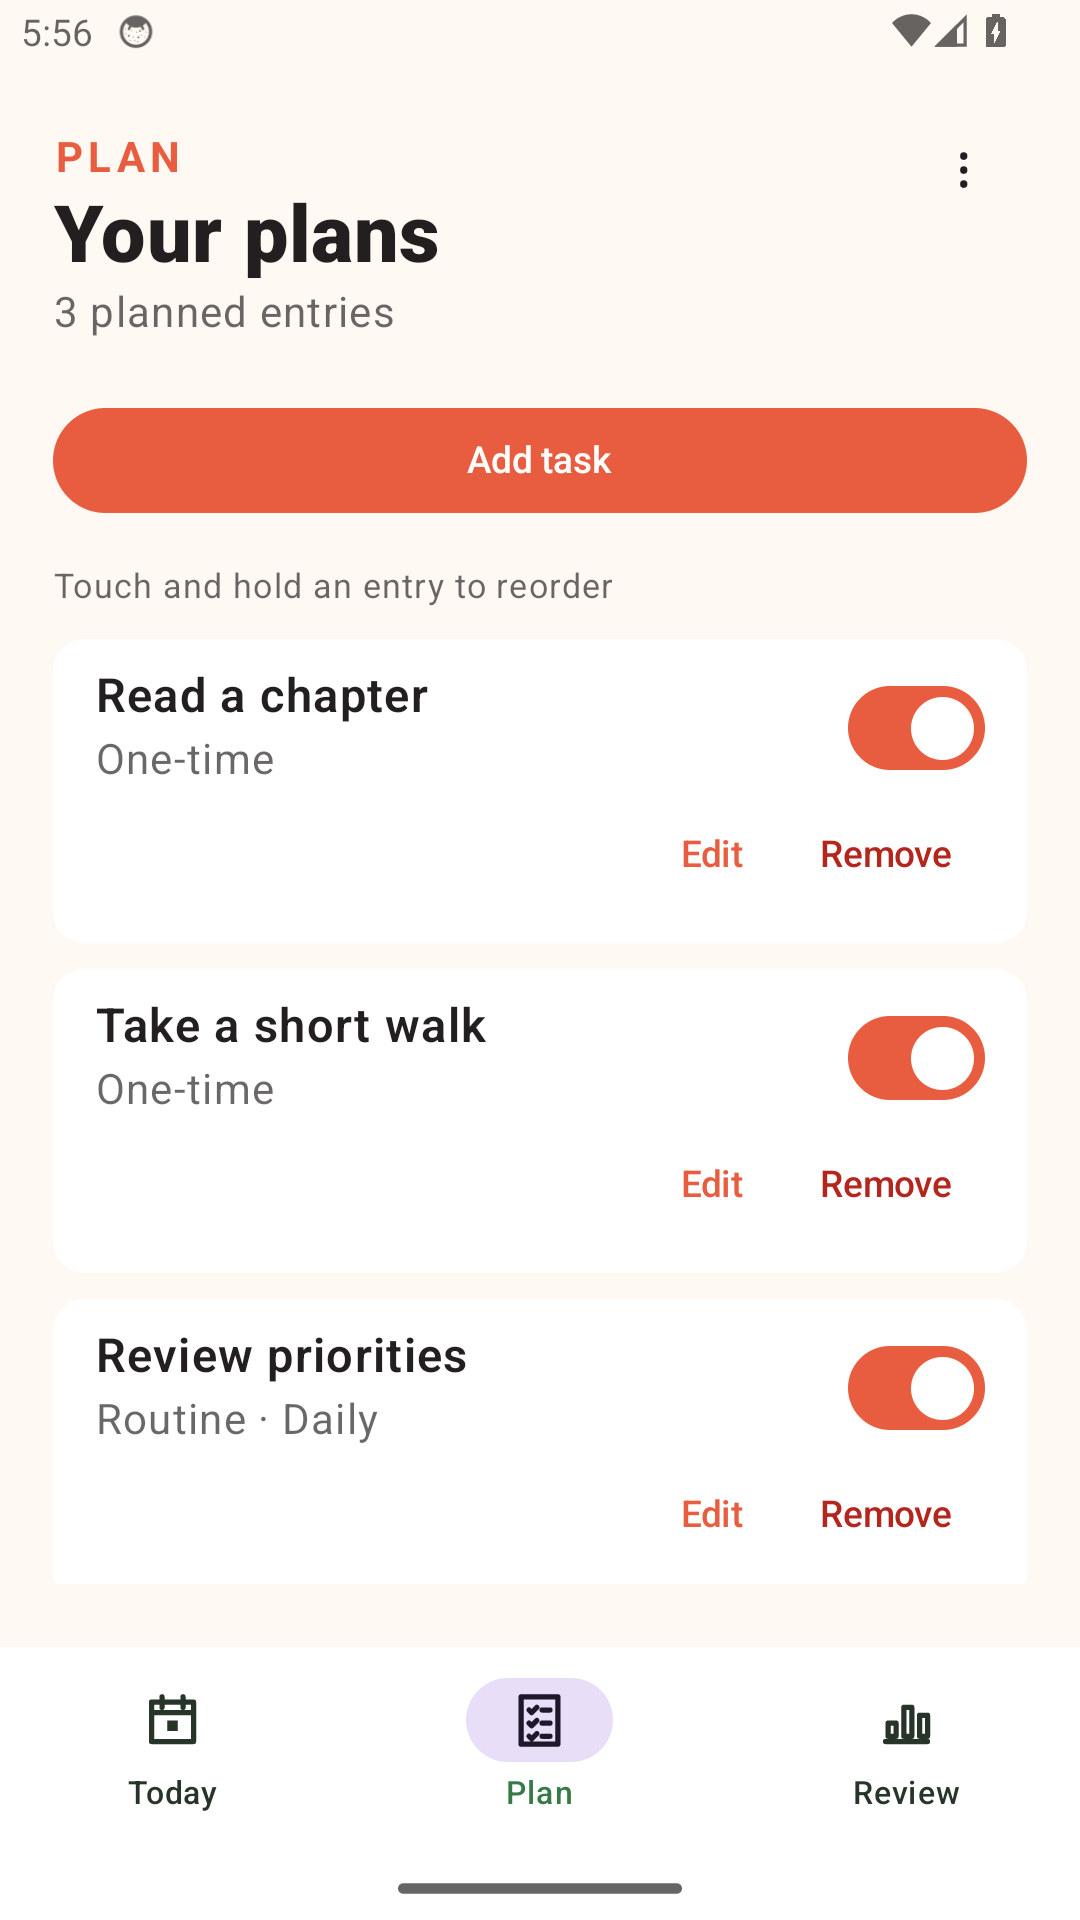
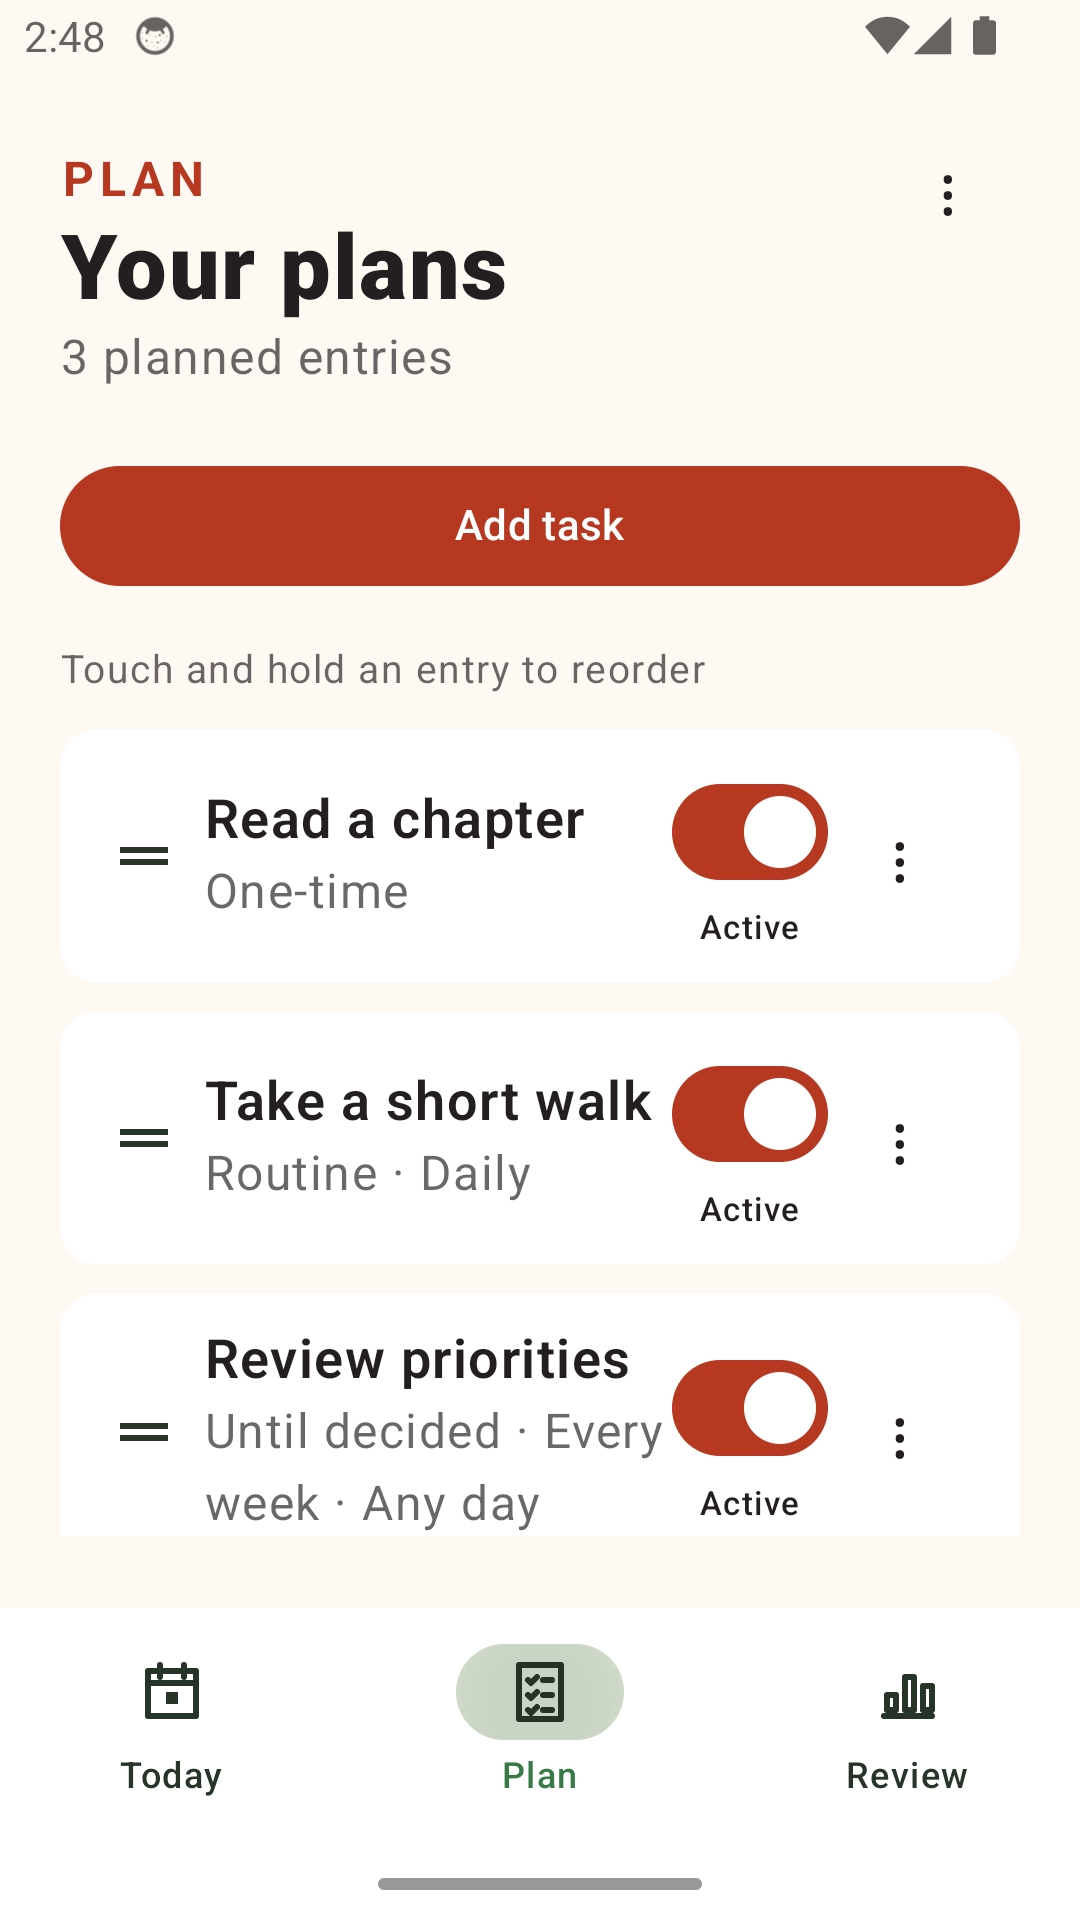
docs(release): record 0.3.2 Alpha and listing submission

diff --git a/work/releases/0.3.2/delivery.md b/work/releases/0.3.2/delivery.md
@@ -1,0 +1,30 @@
+# Sliding Tasks 0.3.2 delivery
+
+On October 10, 2026, version 5 (0.3.2) was submitted to Closed testing - Alpha
+with a 100% rollout and English and Brazilian Portuguese release notes.
+
+Play confirms **Changes in review** for all five changes: the Alpha release,
+English and Brazilian Portuguese full descriptions, and phone screenshots for
+both listings. Quick checks are running before review. Managed publishing is
+off, so approved changes publish automatically. Availability of version 5 and
+the refreshed listing remains pending Google checks and review. Version 4
+(0.3.1) was confirmed available to selected Alpha testers before this submission.
+
+Source: `e907334fb25bb86fe82e5c11edec01be3e2061e2`.
+[Signed build](https://github.com/wastingnotime/sliding-tasks/actions/runs/38098339307)
+passed unit tests, the Crashlytics exclusion check, bundle build, and signature
+verification. Play accepted version 5 with its ReTrace mapping. The only warning
+is missing native debug symbols. Supported device counts are unchanged.
+
+Artifact SHA-256 digests are recorded in `artifacts.json`. The bundle and mapping
+are archived locally in `build/releases/0.3.2/`, ignored by Git. CI artifacts
+expire after seven days.
+
+The store screenshots now show Today, Plan, and Review in that order. Both
+listing descriptions explain Review and the backup controls. Screenshot evidence
+is retained in `store-listing.jpg` and `play-submission.jpg`.
+
+Tracking: WNT-130 owns the completed backup implementation; WNT-101 now targets
+0.3.2 / code 5 for Play-installed device validation.
+
+[Publishing overview](https://play.google.com/console/u/0/developers/8460748010140158851/app/4975120587850699857/publishing)

diff --git a/work/releases/0.3.2/store-listing.md b/work/releases/0.3.2/store-listing.md
@@ -1,0 +1,19 @@
+# Play Store listing refresh
+
+The English default listing uses current light-theme screenshots in this order:
+
+1. Today
+2. Plan
+3. Review
+
+Sources are the rendered Android UX refinement captures under
+`work/changes/android-ux-refinement/screenshots/light/`. The publication copies
+are retained in `work/changes/play-publication/assets/`. The Brazilian Portuguese
+listing uses the same English screenshot set.
+
+English and Brazilian Portuguese full descriptions now describe task editing,
+pause/reorder/removal, the task-specific Skip scope, Review outcomes and recent
+days, and optional exports, automatic daily backups, Back up now, and the last
+successful backup date. Offline operation and language support remain explicit.
+
+Play confirmed the listing changes saved and ready to send for review.
